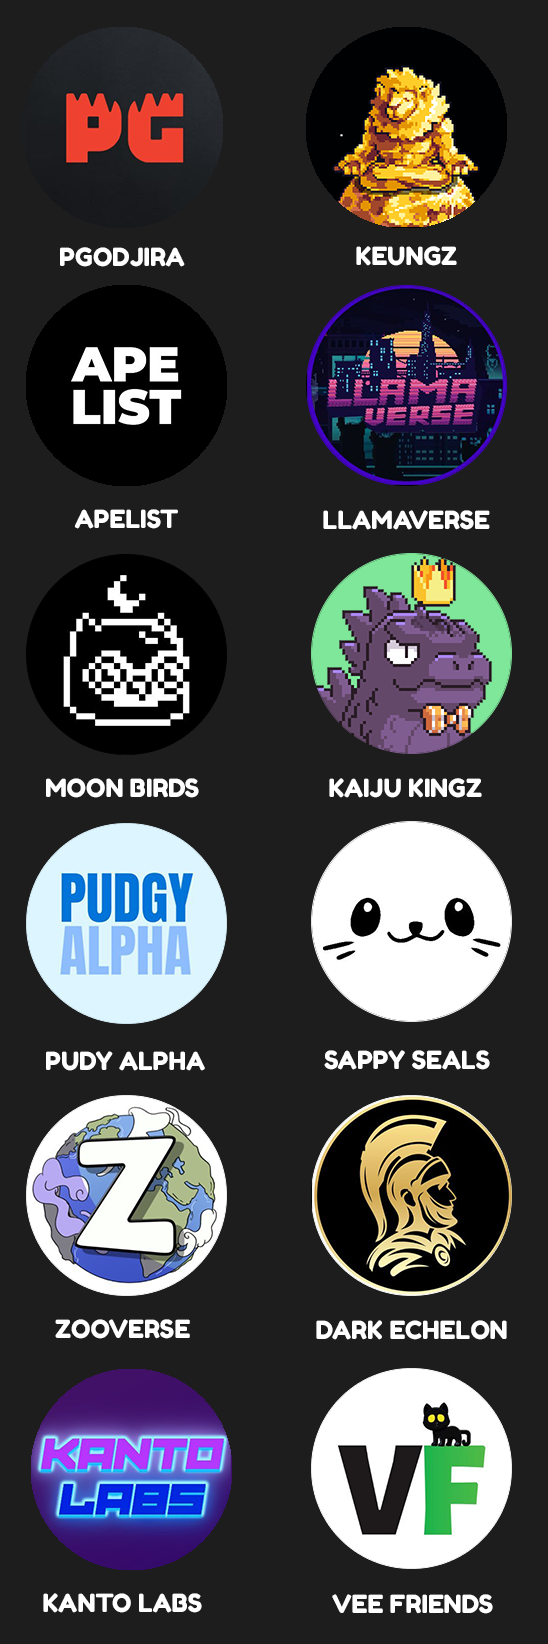
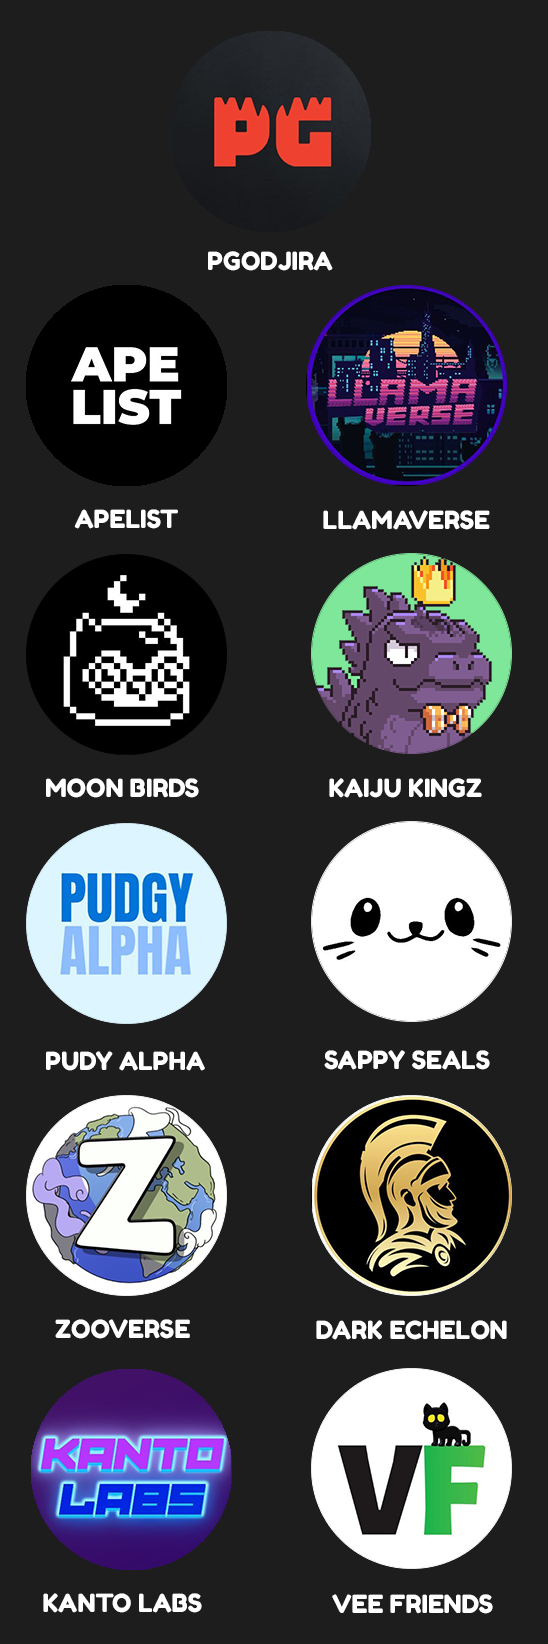
modified images

Changed region(s): [[0.3723, 0.0, 0.9307, 0.1861], [0.0931, 0.031, 0.3412, 0.1861], [0.3723, 0.1551, 0.6204, 0.1861]]

diff --git a/src/components/Home.js b/src/components/Home.js
@@ -25,17 +25,16 @@ function Home() {
                         You will not regret it either. Stay tuned on twitter for announcements.
                     </p>
                 </div>
-                <div className="collabs-description-container">
-                    <h1 className="collabs-description">OUR COLLABS</h1>
-                </div>
-                <div className="collabs-image-container">
-                    <img className="collabs-image" src={ collabsImage } alt="collabs"/>
-                </div>
-                <div className="collabs-mobile-container">
-                    <img className="collabs-mobile" src={ collabsMobile } alt="collabsMobile"/>
-                </div>
+                    <div className="collabs-description-container">
+                        <h1 className="collabs-description">OUR COLLABS</h1>
+                    </div>
+                    <div className="collabs-image-container">
+                        <img className="collabs-image" src={ collabsImage } alt="collabs"/>
+                    </div>
+                    <div className="collabs-mobile-container">
+                        <img className="collabs-mobile" src={ collabsMobile } alt="collabsMobile"/>
+                    </div>
             </div>
-
         </header>
     );
 }

diff --git a/src/index.css b/src/index.css
@@ -1512,7 +1512,7 @@ a.demo {
   }
 
   .collabs-image-container{
-      padding-top: 3%;
+      padding-top: 0%;
       padding-left: 10%;
   }
 
